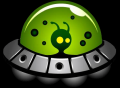
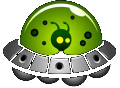
Add alen ships explosion animation

diff --git a/alien.py b/alien.py
@@ -1,4 +1,4 @@
-import pygame
+import pygame, os
 from game_object import GameObject
 
 
@@ -6,6 +6,9 @@ class Alien(GameObject, pygame.sprite.Sprite):
 
     fleet_direction = 1   # to the right by default
     speed_increase_factor = 1
+    bang_sound = "sounds/bang.mp3"
+    bang_images = "images/bang"
+    bang_images_number = len(os.listdir(bang_images))
 
     def __init__(self, settings, screen):
         pygame.sprite.Sprite.__init__(self)
@@ -18,19 +21,40 @@ class Alien(GameObject, pygame.sprite.Sprite):
                 (self.settings.alien_ship_width,
                 self.settings.alien_ship_height))
 
-        # FIX IT! : load or create true png with transparent background
-        self.image.set_colorkey((0, 0, 0))
-
         self.rect = self.image.get_rect()
         self.rect.x = self.settings.alien_ship_width
         self.rect.y = self.settings.alien_ship_height
         self.x = float(self.rect.x)     # сохранение точной позиции
         self.y = float(self.rect.y)
 
+        self.is_hit = False
+        self.is_annihilated = False
+
+    def hit(self):
+        self.is_hit = True
+        self.hit_counter = 0
+        pygame.mixer.Sound(Alien.bang_sound).play()
+
     def update(self):
         self.x += Alien.fleet_direction * Alien.speed_increase_factor * \
                 self.settings.alien_speed
         self.rect.x = self.x
+
+        if self.is_hit:
+            if self.hit_counter > self.settings.moves_per_bang_frame * \
+                                    (Alien.bang_images_number - 1):
+                self.is_annihilated = True
+                del(self)
+                return
+
+            image_file =  "{}/{}.png".format(
+                    Alien.bang_images,
+                    self.hit_counter // self.settings.moves_per_bang_frame)
+            self.image = pygame.transform.scale(
+                pygame.image.load(image_file),
+                (int(self.settings.alien_ship_width * 1.5),
+                int(self.settings.alien_ship_height * 1.5)))
+            self.hit_counter += 1
 
     def draw(self):
         self.screen.blit(self.image, self.rect)

diff --git a/aliens.py b/aliens.py
@@ -17,7 +17,7 @@ class Aliens(GameGroupObject):
 
     def remove(self, alien):
         super().remove(alien)
-        self.bang_sound.play()
+        #self.bang_sound.play()
 
     def create_fleet(self):
         self.counter += 1
@@ -32,11 +32,14 @@ class Aliens(GameGroupObject):
                 self.__create_alien(i, j, distance_x_between_aliens)
 
     def update(self):
+        if len(self) == 0:
+            self.__start_new_level()
+
         if self.__check_aliens_screen_collision():
             self.__change_fleet_direction()
+
+        self.__remove_annihilated_aliens()
         self.items.update()
-##        if pygame.sprite.spritecollideany(self.ship, self.items):
-##            print("Ship Hit!!!")
 
     def __create_alien(self, row_number, alien_number, distance_between_aliens):
         alien = Alien(self.settings, self.screen)
@@ -70,6 +73,11 @@ class Aliens(GameGroupObject):
             if alien.detect_screen_collision():
                 return True
 
+    def __remove_annihilated_aliens(self):
+        for alien in self.items.copy():
+            if alien.is_annihilated:
+                self.items.remove(alien)
+
     def __change_fleet_direction(self):
 
         # интересно, насколько некошерно так делать?
@@ -78,3 +86,10 @@ class Aliens(GameGroupObject):
         for alien in self.items.sprites():
             alien.y += self.fleet_drop_speed
             alien.rect.y = alien.y
+
+    def __start_new_level(self):
+#        print("Another aliens wave destoyed!!!")
+#        self.projectiles.empty()
+        pygame.time.delay(2500)
+        self.create_fleet()
+        # Увеличение начальной скорости у следующей волны

diff --git a/settings.py b/settings.py
@@ -17,7 +17,7 @@ class Settings():
 
         # Projectile parameters
         self.projectile_img = "images/projectile.png"
-        self.projectile_launch_sound = "sounds/launch1.mp3"
+        self.projectile_launch_sound = "sounds/launch.mp3"
         self.projectile_speed = 0.7 * self.ship_speed
         self.projectile_length = 15
         self.projectile_width = 5
@@ -27,6 +27,7 @@ class Settings():
         # Alien Ship parameters
         self.alien_ship_img = "images/aliens_ship.png"
         self.alien_bang_sound = "sounds/bang.mp3"
+        self.moves_per_bang_frame = 3
         self.alien_ship_width = 75
         self.alien_ship_height = int(self.alien_ship_width * 0.75)
         self.alien_speed = 0.20 * self.ship_speed
@@ -37,5 +38,5 @@ class Settings():
         self.alien_speed_increase_factor  = 2
         # факторы увеличения начальных скоростей
         # (горизонтальной и вериткальной) следующей волны
-        self.new_wave_drop_speed_increase_factor = 1.25
-        self.new_wave_alien_speed_increase_factor  = 1.25
+        self.new_wave_drop_speed_increase_factor = 1.20
+        self.new_wave_alien_speed_increase_factor  = 1.20

diff --git a/projectiles.py b/projectiles.py
@@ -34,7 +34,6 @@ class Projectiles(GameGroupObject):
         super().update()
         self.__check_bullet_alien_collisions()      # aliens
 
-
     def __check_bullet_alien_collisions(self):
         for projectile in self.items.copy():
             if projectile.rect.bottom <= 0:
@@ -44,7 +43,10 @@ class Projectiles(GameGroupObject):
                 if projectile.rect.colliderect(alien.rect):
 
                     self.items.remove(projectile)
-                    self.aliens.remove(alien)
+                    if alien.is_hit:
+                        continue
+
+                    alien.hit()
                     self.aliens.fleet_drop_speed *= \
                             self.drop_speed_increase_factor_per_alien
                     Alien.speed_increase_factor *= \
